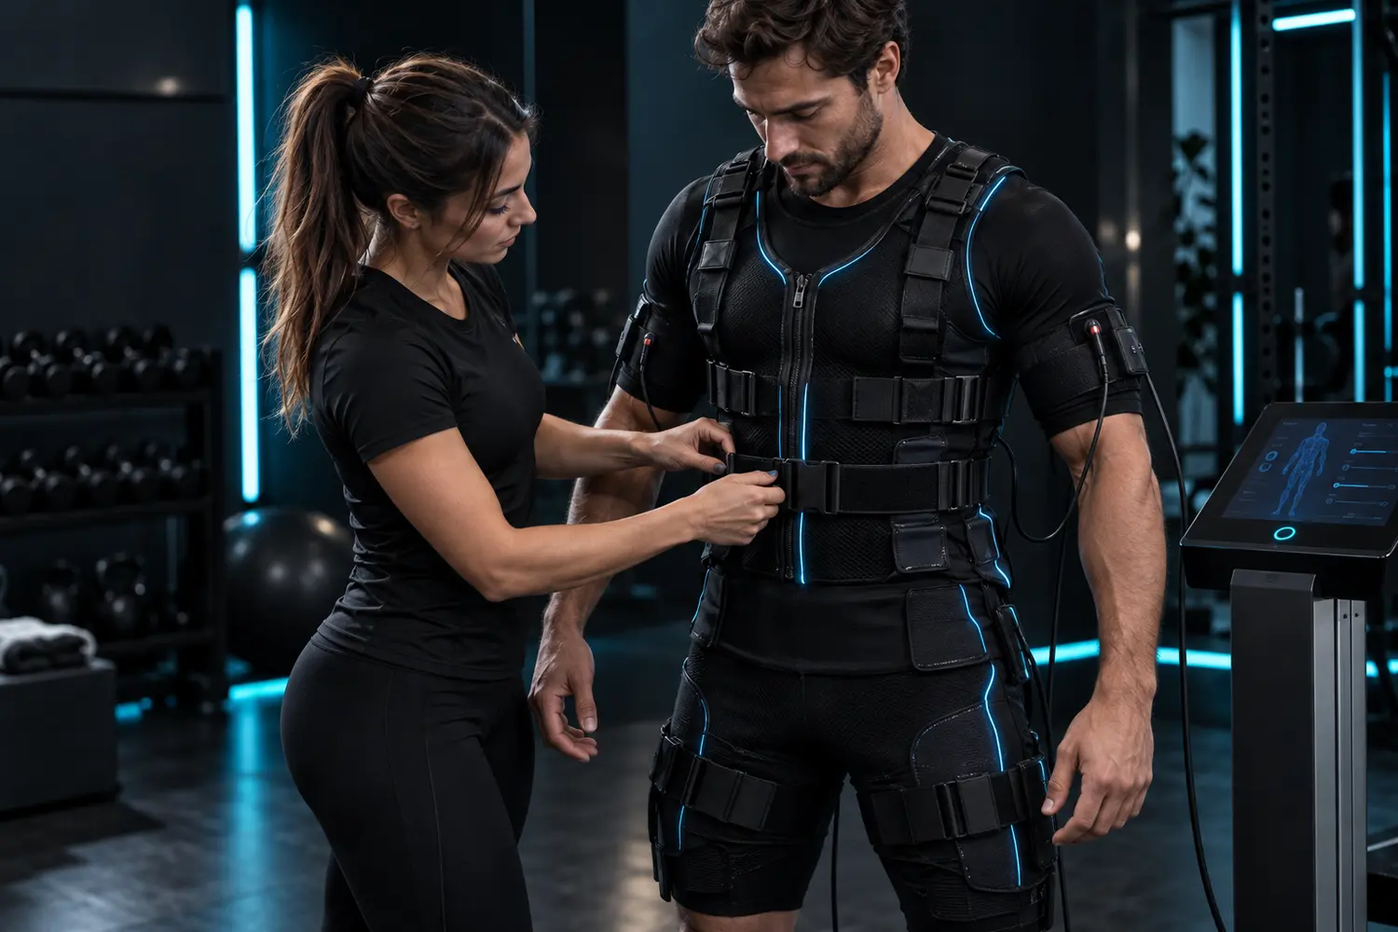
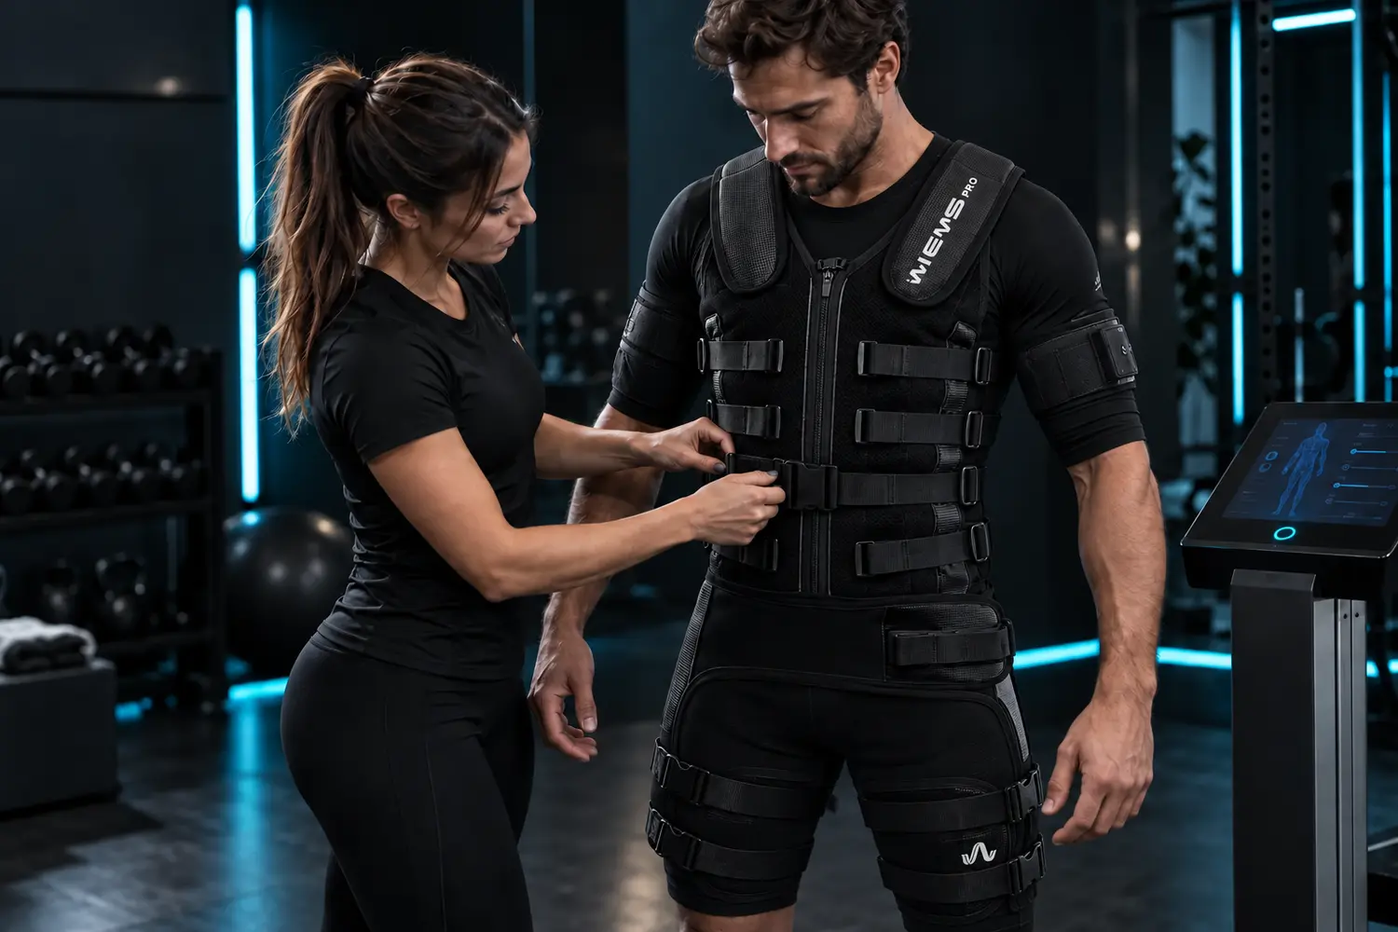
Añade tecnología Wiemspro y nuevas instalaciones

diff --git a/app/page.tsx b/app/page.tsx
@@ -1,14 +1,15 @@
 import {
   Activity, ArrowRight, BadgeCheck, Bolt, Check, Clock3, Dumbbell,
   AtSign, Camera, FileSignature, HeartPulse, Mail, Menu, ShieldCheck, Sparkles,
-  TimerReset, UserRoundCheck,
+  Shirt, TimerReset, UserRoundCheck, Wifi,
 } from "lucide-react";
 import { ReviewsSection } from "@/components/reviews-section";
 
 const evidence = [
-  { icon: Dumbbell, title: "Fuerza y función muscular", text: "La WB-EMS activa simultáneamente grandes grupos musculares y puede favorecer mejoras de fuerza, rendimiento funcional y calidad muscular con una programación constante." },
-  { icon: Activity, title: "Masa muscular y composición corporal", text: "Combinada con ejercicio activo y hábitos saludables, puede contribuir a mejorar la masa muscular y la composición corporal, especialmente al comenzar a entrenar." },
-  { icon: HeartPulse, title: "Estímulo global con menor carga externa", text: "Permite trabajar intensamente la musculatura utilizando cargas externas moderadas, una ventaja para personalizar el entrenamiento y reducir el impacto articular." },
+  { icon: Dumbbell, title: "Fuerza y función muscular", text: "La WB-EMS puede mejorar la fuerza, la potencia y la capacidad funcional cuando se integra en un programa constante, activo y bien supervisado." },
+  { icon: Activity, title: "Masa muscular y composición corporal", text: "Combinada con ejercicio y hábitos saludables, puede ayudar a preservar o aumentar masa muscular y favorecer cambios en la composición corporal." },
+  { icon: HeartPulse, title: "Menor carga externa", text: "Permite generar un estímulo muscular intenso con cargas externas moderadas, facilitando la adaptación del entrenamiento y reduciendo el estrés mecánico articular." },
+  { icon: Clock3, title: "Trabajo global y eficiente", text: "Activa varios grupos musculares a la vez mientras te mueves, concentrando un entrenamiento de cuerpo completo en una sesión breve y planificada." },
 ];
 
 const profiles = [
@@ -19,11 +20,10 @@ const profiles = [
 ];
 
 const studioGallery = [
-  { image: "instagram/impulsa-01.webp", title: "Estamos en Huelva", text: "Alameda Sundheim, 14", href: "https://www.instagram.com/p/DThr8GEjKSe/" },
-  { image: "instagram/impulsa-02.webp", title: "EMS Performance Studio", text: "Un espacio con identidad propia", href: "https://www.instagram.com/p/DcgwOpgEewv/" },
-  { image: "instagram/impulsa-03.webp", title: "Activación global", text: "Hasta 300 músculos a la vez", href: "https://www.instagram.com/p/DaOJMmGAs95/?img_index=3" },
-  { image: "instagram/impulsa-04.webp", title: "Tecnología EMS", text: "Fitness inteligente en Huelva", href: "https://www.instagram.com/p/DZnhR0tiK7r/" },
-  { image: "instagram/impulsa-05.webp", title: "Entrenamiento personalizado", text: "Cada sesión, adaptada a ti", href: "https://www.instagram.com/p/DZE9ozkCvUV/" },
+  { image: "estudio-zona-1.webp", title: "Zona Wiemspro", text: "Equipamiento preparado para cada sesión" },
+  { image: "estudio-zona-2.webp", title: "Espacio de entrenamiento", text: "Amplitud, privacidad y atención cercana" },
+  { image: "estudio-zona-3.webp", title: "Tecnología integrada", text: "Control inalámbrico durante el ejercicio" },
+  { image: "estudio-zona-4.webp", title: "Identidad IMPULSA FIT", text: "Un entorno diseñado para moverte" },
 ];
 
 export default function Home() {
@@ -31,16 +31,15 @@ export default function Home() {
     <main>
       <header className="site-header">
         <a className="brand" href="#inicio" aria-label="IMPULSA FIT, inicio">
-          <span className="pulse-mark" aria-hidden="true"><svg viewBox="0 0 64 28"><path d="M2 15h12l5-9 8 19 8-23 8 18 5-9 5 4h9" /></svg></span>
-          <span>IMPULSA<span>FIT</span></span>
+          <img className="brand-logo" src="logo-impulsa-fit.webp" alt="IMPULSA FIT · EMS Performance Studio" />
         </a>
         <nav aria-label="Navegación principal">
-          <a href="#que-es">Qué es</a><a href="#beneficios">Beneficios</a><a href="#para-quien">Para quién</a><a href="#instalaciones">Instalaciones</a><a href="#resenas">Reseñas</a>
+          <a href="#que-es">Tecnología Wiemspro</a><a href="#para-quien">Para quién</a><a href="#instalaciones">Instalaciones</a><a href="#resenas">Reseñas</a>
         </nav>
         <a className="header-cta" href="#contacto">Quiero probarlo <ArrowRight size={17} /></a>
         <details className="mobile-menu">
           <summary aria-label="Abrir menú"><Menu size={24} /></summary>
-          <div><a href="#que-es">Qué es</a><a href="#beneficios">Beneficios</a><a href="#para-quien">Para quién</a><a href="#instalaciones">Instalaciones</a><a href="#seguridad">Seguridad</a><a href="#resenas">Reseñas</a><a href="#contacto">Contacto</a></div>
+          <div><a href="#que-es">Tecnología Wiemspro</a><a href="#para-quien">Para quién</a><a href="#instalaciones">Instalaciones</a><a href="#seguridad">Seguridad</a><a href="#resenas">Reseñas</a><a href="#contacto">Contacto</a></div>
         </details>
       </header>
 
@@ -52,7 +51,7 @@ export default function Home() {
           <p className="hero-copy">Entrenamiento WB-EMS personalizado, activo y siempre supervisado. Una sesión completa de unos 40 minutos para trabajar todo el cuerpo de forma eficiente.</p>
           <div className="hero-actions">
             <a className="button primary" href="#contacto">Solicitar valoración <ArrowRight size={19} /></a>
-            <a className="button ghost" href="#beneficios">Descubrir los beneficios</a>
+            <a className="button ghost" href="#que-es">Conocer la tecnología</a>
           </div>
           <div className="hero-points" aria-label="Características principales">
             <span><UserRoundCheck size={18} /> Supervisión cercana</span><span><TimerReset size={18} /> Unos 40 minutos</span><span><ShieldCheck size={18} /> Valoración previa</span>
@@ -69,34 +68,53 @@ export default function Home() {
             <div className="power-stat"><strong>100%</strong><span>guiado, personalizado<br />y en movimiento</span></div>
           </div>
           <div className="power-images">
-            <figure className="power-image power-image-main"><img src="ems-setup.webp" alt="Monitor ajustando un chaleco EMS antes del entrenamiento" /><figcaption><span>01</span> Ajuste profesional</figcaption></figure>
+            <figure className="power-image power-image-main"><img src="ems-setup.webp" alt="Entrenadora ajustando el traje Wiemspro Revolution Pro antes del entrenamiento" /><figcaption><span>01</span> Ajuste Wiemspro</figcaption></figure>
             <figure className="power-image power-image-float"><img src="ems-training.webp" alt="Mujer entrenando con chaleco EMS bajo supervisión profesional" /><figcaption><span>02</span> Movimiento activo</figcaption></figure>
           </div>
         </div>
       </section>
 
-      <section className="intro wrap" id="que-es">
-        <div className="section-kicker"><Bolt size={18} /> ENTENDER LA EMS</div>
-        <div className="intro-grid">
-          <div><h2>Tu movimiento.<br /><span>Nuestro impulso.</span></h2></div>
-          <div className="intro-copy">
-            <p>La electroestimulación de cuerpo completo —WB-EMS— aplica impulsos eléctricos controlados a varios grupos musculares mientras realizas ejercicios voluntarios.</p>
-            <p>El chaleco no entrena por ti: la combinación de movimiento, intensidad individualizada, progresión y acompañamiento profesional es lo que convierte la sesión en entrenamiento.</p>
-          </div>
-        </div>
-        <div className="process" aria-label="Cómo es una sesión">
-          <div><span>01</span><strong>Valoramos</strong><p>Objetivos, experiencia y posibles contraindicaciones.</p></div>
-          <div><span>02</span><strong>Ajustamos</strong><p>El chaleco y la intensidad de cada zona muscular.</p></div>
-          <div><span>03</span><strong>Entrenamos</strong><p>Movimientos activos con corrección y feedback continuo.</p></div>
-          <div><span>04</span><strong>Progresamos</strong><p>Sin prisas: el cuerpo necesita una fase de adaptación.</p></div>
-        </div>
-      </section>
-
-      <section className="science" id="beneficios">
+      <section className="technology-combined" id="que-es">
         <div className="wrap">
+          <div className="section-kicker"><Wifi size={18} /> TECNOLOGÍA WIEMSPRO · WB-EMS INALÁMBRICA</div>
+          <div className="intro-grid">
+            <div><h2>Tu movimiento.<br /><span>Nuestro impulso.</span></h2></div>
+            <div className="intro-copy">
+              <p>La electroestimulación de cuerpo completo —WB-EMS— aplica impulsos eléctricos controlados a varios grupos musculares mientras realizas ejercicios voluntarios.</p>
+              <p>El chaleco no entrena por ti: el resultado depende del movimiento, la intensidad individualizada, una progresión adecuada y la supervisión profesional.</p>
+            </div>
+          </div>
+
+          <div className="wiemspro-feature">
+            <div className="wiemspro-copy">
+              <p className="eyebrow">SISTEMA WIEMSFIT</p>
+              <h3>Precisión muscular.<br /><span>Libertad para moverte.</span></h3>
+              <p>En IMPULSA FIT trabajamos con <strong>Wiemspro</strong>, un sistema profesional de electroestimulación inalámbrica. Su traje Revolution Pro incorpora diez pares de electrodos colocados estratégicamente para trabajar hasta diez grupos musculares de forma simultánea.</p>
+              <p>Desde la tablet, el profesional adapta el impulso de cada zona a tu sensibilidad y objetivo. El diseño ergonómico, las correas regulables y los tejidos flexibles mantienen los electrodos en contacto mientras haces sentadillas, zancadas, empujes, tracciones y otros ejercicios activos sin depender de cables.</p>
+              <div className="wiemspro-points">
+                <span><Wifi size={18} /><b>Wireless</b> Movimiento sin cables</span>
+                <span><Activity size={18} /><b>10 zonas</b> Intensidad individualizada</span>
+                <span><ShieldCheck size={18} /><b>Ergonómico</b> Ajuste estable y cómodo</span>
+              </div>
+              <div className="clothing-note">
+                <Shirt size={27} />
+                <div><strong>¿Qué ropa debes traer?</strong><p>Una <b>camiseta negra ceñida de manga corta o media manga</b> y unas <b>mallas negras largas y ajustadas</b>. Deben ser prendas cómodas, transpirables y sin cremalleras, botones ni piezas metálicas que puedan quedar bajo el traje. Esta primera capa favorece el contacto uniforme, el movimiento y la higiene durante la sesión.</p></div>
+              </div>
+            </div>
+            <figure className="wiemspro-visual"><img src="tecnologia-wiemspro.webp" alt="Traje profesional Wiemspro y sus principales características" loading="lazy" /><figcaption>Tecnología Wiemspro utilizada en IMPULSA FIT</figcaption></figure>
+          </div>
+
+          <div className="process" aria-label="Cómo es una sesión">
+            <div><span>01</span><strong>Valoramos</strong><p>Objetivos, experiencia y posibles contraindicaciones.</p></div>
+            <div><span>02</span><strong>Ajustamos</strong><p>El traje Wiemspro y la intensidad de cada zona.</p></div>
+            <div><span>03</span><strong>Entrenamos</strong><p>Movimientos activos con corrección y feedback continuo.</p></div>
+            <div><span>04</span><strong>Progresamos</strong><p>Sin prisas: el cuerpo necesita una fase de adaptación.</p></div>
+          </div>
+
+          <div className="benefits-block" id="beneficios">
           <div className="section-heading">
             <div><div className="section-kicker"><BadgeCheck size={18} /> BENEFICIOS CON RESPALDO CIENTÍFICO</div><h2>Más estímulo.<br /><span>Tiempo bien aprovechado.</span></h2></div>
-            <p>La WB-EMS combina contracciones voluntarias con impulsos individualizados para activar varios grupos musculares a la vez. El resultado es un entrenamiento global, intenso y adaptable.</p>
+            <p>La WB-EMS combina contracciones voluntarias e impulsos individualizados. Puede ser una herramienta eficaz para ganar fuerza, mantener masa muscular y mejorar la función física, siempre dentro de un programa supervisado.</p>
           </div>
           <div className="evidence-grid">
             {evidence.map(({ icon: Icon, title, text }) => <article className="evidence-card" key={title}><Icon size={27} /><h3>{title}</h3><p>{text}</p></article>)}
@@ -107,10 +125,11 @@ export default function Home() {
             <Clock3 className="time-icon" size={56} />
           </div>
           <div className="truth-grid">
-            <div><Check size={20} /><p><strong>Eficiente:</strong> trabaja varios grupos musculares de forma simultánea.</p></div>
-            <div><Check size={20} /><p><strong>Personalizada:</strong> cada zona se ajusta a tu sensibilidad y nivel.</p></div>
-            <div><Check size={20} /><p><strong>Versátil:</strong> encaja tanto al empezar como para complementar otra rutina.</p></div>
-            <div><Check size={20} /><p><strong>Progresiva:</strong> el estímulo evoluciona contigo sesión a sesión.</p></div>
+            <div><Check size={20} /><p><strong>Eficiente:</strong> trabaja de forma simultánea piernas, glúteos, abdomen, espalda, pecho y brazos.</p></div>
+            <div><Check size={20} /><p><strong>Personalizada:</strong> regulamos cada grupo muscular de forma independiente según tu percepción y tolerancia.</p></div>
+            <div><Check size={20} /><p><strong>Versátil:</strong> puede servir para comenzar, complementar tu entrenamiento o reducir la carga externa.</p></div>
+            <div><Check size={20} /><p><strong>Progresiva:</strong> la intensidad aumenta gradualmente; más impulso no significa automáticamente mejores resultados.</p></div>
+          </div>
           </div>
         </div>
       </section>
@@ -123,12 +142,11 @@ export default function Home() {
           </div>
           <div className="facility-gallery" aria-label="Galería de IMPULSA FIT">
             {studioGallery.map((item, index) => (
-              <a className={`facility-photo facility-photo-${index + 1}`} href={item.href} target="_blank" rel="noreferrer" key={item.title} aria-label={`${item.title}. Ver publicación en Instagram`}>
+              <figure className={`facility-photo facility-photo-${index + 1}`} key={item.title}>
                 <img src={item.image} alt={`${item.title} en IMPULSA FIT Huelva`} loading="lazy" />
                 <span className="facility-glow" aria-hidden="true" />
-                <span className="facility-caption"><small>0{index + 1} · @impulsafit_huelva</small><strong>{item.title}</strong><em>{item.text}</em></span>
-                <ArrowRight className="facility-arrow" size={22} />
-              </a>
+                <figcaption className="facility-caption"><small>0{index + 1} · IMPULSA FIT HUELVA</small><strong>{item.title}</strong><em>{item.text}</em></figcaption>
+              </figure>
             ))}
           </div>
           <a className="instagram-link" href="https://www.instagram.com/impulsafit_huelva/" target="_blank" rel="noreferrer"><AtSign size={18} /> Ver más en Instagram <ArrowRight size={18} /></a>
@@ -193,10 +211,11 @@ export default function Home() {
           <li><a href="https://doi.org/10.3389/fphys.2018.00573" target="_blank" rel="noreferrer">Revisión sistemática en adultos no deportistas</a></li>
           <li><a href="https://doi.org/10.3390/jfmk10030243" target="_blank" rel="noreferrer">WB-EMS frente a entrenamiento de fuerza: estudio comparativo (2025)</a></li>
           <li><a href="https://pubmed.ncbi.nlm.nih.gov/27034699/" target="_blank" rel="noreferrer">WB-EMS frente a entrenamiento HIT en hombres de mediana edad</a></li>
+          <li><a href="https://wiemspro.com/en/electrostimulation-suit/" target="_blank" rel="noreferrer">Características y recomendaciones del traje Wiemspro</a></li>
         </ol>
       </section>
 
-      <footer><div className="wrap footer-inner"><a className="brand" href="#inicio"><span>IMPULSA<span>FIT</span></span></a><p>EMS Performance Studio · Huelva</p><a href="https://www.instagram.com/impulsafit_huelva/" target="_blank" rel="noreferrer" aria-label="Instagram de IMPULSA FIT"><AtSign size={20} /> @impulsafit_huelva</a></div></footer>
+      <footer><div className="wrap footer-inner"><a className="brand footer-brand" href="#inicio"><img className="brand-logo" src="logo-impulsa-fit.webp" alt="IMPULSA FIT" /></a><p>EMS Performance Studio · Huelva</p><a href="https://www.instagram.com/impulsafit_huelva/" target="_blank" rel="noreferrer" aria-label="Instagram de IMPULSA FIT"><AtSign size={20} /> @impulsafit_huelva</a></div></footer>
     </main>
   );
 }

diff --git a/app/globals.css b/app/globals.css
@@ -25,6 +25,8 @@ a { color: inherit; text-decoration: none; }
 .site-header { position: fixed; inset: 0 0 auto; z-index: 30; height: 76px; display: flex; align-items: center; padding: 0 max(24px, calc((100vw - 1180px)/2)); border-bottom: 1px solid rgb(255 255 255 / 10%); background: rgb(5 9 13 / 82%); backdrop-filter: blur(18px); }
 .brand { display: flex; align-items: center; gap: 10px; font-family: "Arial Narrow", Arial, sans-serif; font-weight: 900; letter-spacing: -.04em; font-size: 1.35rem; white-space: nowrap; }
 .brand > span:last-child span { color: #28dff6; }
+.brand-logo { display: block; width: 198px; height: 58px; object-fit: contain; }
+.footer-brand .brand-logo { width: 175px; height: 62px; }
 .pulse-mark { width: 46px; color: #28dff6; }
 .pulse-mark svg { display: block; width: 100%; }
 .pulse-mark path { fill: none; stroke: currentColor; stroke-width: 3.5; stroke-linecap: round; stroke-linejoin: round; filter: drop-shadow(0 0 7px #21daf0); }
@@ -92,9 +94,28 @@ h2 { font-size: clamp(2.7rem, 5.6vw, 5.1rem); }
 .power-image figcaption span { display: grid; place-items: center; width: 30px; height: 30px; border: 1px solid #28dff6; color: #28dff6; box-shadow: 0 0 18px rgb(40 223 246 / 30%); }
 
 .science { padding-block: 110px; background: radial-gradient(circle at 75% 5%, rgb(35 210 238 / 8%), transparent 28%), #0a1016; border-block: 1px solid #1a2730; }
+.technology-combined { padding-block: 110px; background: radial-gradient(circle at 78% 8%, rgb(35 210 238 / 9%), transparent 26%), #0a1016; border-block: 1px solid #1a2730; }
+.wiemspro-feature { display: grid; grid-template-columns: minmax(0, 1.08fr) minmax(340px, .72fr); gap: 62px; align-items: center; margin-top: 64px; padding: 42px; border: 1px solid #2b4c57; background: linear-gradient(125deg, #0d1d24, #070d12 70%); box-shadow: 0 32px 90px rgb(0 0 0 / 24%); }
+.wiemspro-copy h3 { margin: 10px 0 24px; text-transform: uppercase; font: 900 clamp(2.2rem, 4vw, 4rem)/.98 "Arial Narrow", Impact, sans-serif; letter-spacing: -.035em; }
+.wiemspro-copy h3 span { color: #28dff6; }
+.wiemspro-copy > p:not(.eyebrow) { color: #9fb0b7; line-height: 1.75; }
+.wiemspro-copy > p strong { color: white; }
+.wiemspro-points { display: grid; grid-template-columns: repeat(3, 1fr); gap: 1px; margin-top: 28px; background: #29414a; }
+.wiemspro-points span { display: grid; grid-template-columns: 22px 1fr; gap: 6px 9px; align-items: center; padding: 17px; background: #0a141a; color: #879aa2; font-size: .78rem; line-height: 1.4; }
+.wiemspro-points svg { grid-row: 1 / 3; color: #28dff6; }
+.wiemspro-points b { color: white; text-transform: uppercase; font-size: .82rem; }
+.clothing-note { display: flex; gap: 17px; margin-top: 26px; padding: 22px; border-left: 3px solid #28dff6; background: #10252d; }
+.clothing-note > svg { flex: none; color: #28dff6; }
+.clothing-note strong { display: block; margin-bottom: 8px; color: white; text-transform: uppercase; font-family: "Arial Narrow", Arial, sans-serif; font-size: 1.08rem; }
+.clothing-note p { margin: 0; color: #a9bbc1; font-size: .9rem; line-height: 1.65; }
+.clothing-note b { color: #e7f6f8; }
+.wiemspro-visual { margin: 0; overflow: hidden; border: 1px solid #2a5a66; background: #020405; box-shadow: 0 25px 70px rgb(0 0 0 / 45%), 0 0 45px rgb(40 223 246 / 7%); }
+.wiemspro-visual img { display: block; width: 100%; height: auto; }
+.wiemspro-visual figcaption { padding: 13px 16px; border-top: 1px solid #24444d; color: #82969d; font-size: .74rem; text-align: center; text-transform: uppercase; letter-spacing: .1em; }
+.benefits-block { scroll-margin-top: 90px; margin-top: 110px; padding-top: 100px; border-top: 1px solid #27414b; }
 .section-heading { display: grid; grid-template-columns: 1.4fr .6fr; gap: 70px; align-items: end; }
 .section-heading > p { color: #96a7af; line-height: 1.75; padding-bottom: 28px; }
-.evidence-grid { display: grid; grid-template-columns: repeat(3, 1fr); gap: 18px; }
+.evidence-grid { display: grid; grid-template-columns: repeat(4, 1fr); gap: 18px; }
 .evidence-card { position: relative; min-height: 270px; padding: 30px; overflow: hidden; border: 1px solid #29424d; background: linear-gradient(145deg, rgb(19 34 43 / 94%), rgb(7 13 18 / 90%)); transition: transform .25s, border-color .25s, box-shadow .25s; }
 .evidence-card::before { content: ""; position: absolute; inset: 0 auto 0 0; width: 2px; background: #28dff6; box-shadow: 0 0 18px #28dff6; opacity: .6; }
 .evidence-card:hover { transform: translateY(-5px); border-color: #34788a; box-shadow: 0 22px 55px rgb(0 0 0 / 32%), 0 0 28px rgb(40 223 246 / 8%); }
@@ -125,13 +146,13 @@ h2 { font-size: clamp(2.7rem, 5.6vw, 5.1rem); }
 .profile-list svg { color: #28dff6; }
 
 .facilities { background: radial-gradient(circle at 15% 10%, rgb(40 223 246 / 7%), transparent 30%), #080e13; border-top: 1px solid #1a2730; }
-.facility-gallery { display: grid; grid-template-columns: repeat(12, 1fr); grid-auto-rows: 190px; gap: 16px; margin-top: 42px; }
+.facility-gallery { display: grid; grid-template-columns: repeat(12, 1fr); grid-auto-rows: 280px; gap: 16px; margin-top: 42px; }
 .facility-photo { position: relative; grid-column: span 4; grid-row: span 2; overflow: hidden; border: 1px solid #244954; background: #071016; box-shadow: 0 24px 60px rgb(0 0 0 / 34%); isolation: isolate; }
-.facility-photo-1 { grid-column: span 4; grid-row: span 3; }
-.facility-photo-2 { grid-column: span 8; grid-row: span 3; }
-.facility-photo-3 { grid-column: span 5; }
-.facility-photo-4 { grid-column: span 3; }
-.facility-photo-5 { grid-column: span 4; }
+.facility-photo { margin: 0; }
+.facility-photo-1 { grid-column: 1 / 5; grid-row: 1 / 3; }
+.facility-photo-2 { grid-column: 5 / 9; grid-row: 1; }
+.facility-photo-3 { grid-column: 5 / 9; grid-row: 2; }
+.facility-photo-4 { grid-column: 9 / 13; grid-row: 1 / 3; }
 .facility-photo::before { content: ""; position: absolute; inset: 0; z-index: 1; background: linear-gradient(180deg, transparent 40%, rgb(2 8 12 / 88%) 100%); }
 .facility-photo::after { content: ""; position: absolute; inset: 0; z-index: 2; border: 1px solid transparent; transition: border-color .25s, box-shadow .25s; pointer-events: none; }
 .facility-photo img { width: 100%; height: 100%; display: block; object-fit: cover; transition: transform .55s ease, filter .55s ease; }
@@ -300,13 +321,14 @@ footer { border-top: 1px solid #1d2931; background: #05080c; }
   .hero-media { background-position: 62% center; }
   .hero-shade { background: linear-gradient(90deg, #05090f 0%, rgb(5 9 15 / 86%) 60%, rgb(5 9 15 / 38%)), linear-gradient(0deg, #070b10 0%, transparent 35%); }
   .hero-copy { max-width: 520px; }
-  .intro-grid, .section-heading, .section-heading.compact, .safety-grid, .contact-card, .power-showcase-grid, .reviews-layout { grid-template-columns: 1fr; gap: 40px; }
+  .intro-grid, .section-heading, .section-heading.compact, .safety-grid, .contact-card, .power-showcase-grid, .reviews-layout, .wiemspro-feature { grid-template-columns: 1fr; gap: 40px; }
+  .wiemspro-feature { padding: 32px; } .wiemspro-visual { width: min(520px, 100%); margin-inline: auto; }
+  .evidence-grid { grid-template-columns: 1fr 1fr; }
   .power-images { min-height: 590px; }
   .process { grid-template-columns: 1fr 1fr; } .process > div:nth-child(2) { border-right: 0; }
   .evidence-grid { grid-template-columns: 1fr; } .evidence-card { min-height: auto; } .evidence-card h3 { margin-top: 26px; }
   .facility-gallery { grid-template-columns: 1fr 1fr; grid-auto-rows: 280px; }
   .facility-photo, .facility-photo-1, .facility-photo-2, .facility-photo-3, .facility-photo-4, .facility-photo-5 { grid-column: span 1; grid-row: span 1; }
-  .facility-photo-2 { grid-column: span 2; }
   .profile-list article { grid-template-columns: 52px 210px 1fr 25px; }
   .contact-copy, .preview-form { padding: 38px; }
   .signature-grid { grid-template-columns: 1fr; }
@@ -316,7 +338,9 @@ footer { border-top: 1px solid #1d2931; background: #05080c; }
   .hero { min-height: 760px; align-items: flex-end; padding-bottom: 56px; } .hero-content { padding-top: 140px; }
   .hero-media { background-position: 64% center; opacity: .72; } .hero-shade { background: linear-gradient(0deg, #070b10 7%, rgb(5 9 15 / 82%) 58%, rgb(5 9 15 / 25%)), linear-gradient(90deg, rgb(5 9 15 / 78%), transparent); }
   .hero h1 { font-size: clamp(3rem, 15vw, 4.4rem); } .hero-points { gap: 12px 20px; }
-  .intro, .profiles, .facilities, .contact, .science, .safety, .power-showcase, .reviews { padding-block: 76px; } h2 { font-size: 2.8rem; }
+  .intro, .profiles, .facilities, .contact, .science, .safety, .power-showcase, .reviews, .technology-combined { padding-block: 76px; } h2 { font-size: 2.8rem; }
+  .brand-logo { width: 165px; height: 50px; }
+  .wiemspro-feature { margin-top: 42px; padding: 24px 18px; } .wiemspro-points, .evidence-grid { grid-template-columns: 1fr; } .benefits-block { margin-top: 78px; padding-top: 70px; }
   .power-images { min-height: 480px; }
   .power-image-main { inset: 0 30px 90px 0; }
   .power-image-float { width: 64%; height: 42%; }
